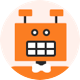
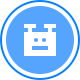
Cleanup of assets, CSS fixes

diff --git a/src/components/User/UserTooltip.jsx b/src/components/User/UserTooltip.jsx
@@ -16,7 +16,7 @@ const UserTooltip = ({ usr, id, previewAvatar }) => {
         {
           previewAvatar ? (<div className={`stack-avatar-${id}`}>
             <Avatar
-              avatarUrl={_.get(usr, 'photoURL', require('../../assets/images/avatar-coder.png'))}
+              avatarUrl={_.get(usr, 'photoURL', require('../../assets/images/avatar-coder.svg'))}
               userName={usr.firstName ? (usr.firstName + ' ' + usr.lastName) : 'Connect user'}
               size={30}
             />
@@ -29,7 +29,7 @@ const UserTooltip = ({ usr, id, previewAvatar }) => {
           <div className="tt-col-avatar">
             <a href={`//www.${DOMAIN}/members/${usr.handle}/`} target="_blank" rel="noopener noreferrer" className="tt-user-avatar">
               <Avatar
-                avatarUrl={_.get(usr, 'photoURL', require('../../assets/images/avatar-coder.png'))}
+                avatarUrl={_.get(usr, 'photoURL', require('../../assets/images/avatar-coder.svg'))}
                 userName={usr.firstName ? (usr.firstName + ' ' + usr.lastName) : 'Connect user'}
               />
             </a>

diff --git a/src/components/AvatarGroup/AvatarGroup.jsx b/src/components/AvatarGroup/AvatarGroup.jsx
@@ -9,7 +9,7 @@ function AvatarGroup({ users }) {
     return (
       <Avatar
         key={ index }
-        avatarUrl={ _.get(user, 'photoURL', require('../../assets/images/avatar-coder.png'))}
+        avatarUrl={ _.get(user, 'photoURL', require('../../assets/images/avatar-coder.svg'))}
         userName={ user.firstName ? (user.firstName + ' ' + user.lastName) : 'Connect user'}
       />
     )

diff --git a/src/projects/detail/containers/FeedContainer.js b/src/projects/detail/containers/FeedContainer.js
@@ -28,7 +28,7 @@ const ScrollableFeed = Helpers.Element(Feed)
 const SYSTEM_USER = {
   firstName: CODER_BOT_USER_FNAME,
   lastName: CODER_BOT_USER_LNAME,
-  photoURL: require('../../../assets/images/avatar-coder.png')
+  photoURL: require('../../../assets/images/avatar-coder.svg')
 }
 const isSystemUser = (userId) => [DISCOURSE_BOT_USERID, CODER_BOT_USERID].indexOf(userId) > -1
 

diff --git a/src/projects/detail/containers/MessagesContainer.js b/src/projects/detail/containers/MessagesContainer.js
@@ -24,7 +24,7 @@ import {
 const SYSTEM_USER = {
   firstName: CODER_BOT_USER_FNAME,
   lastName: CODER_BOT_USER_LNAME,
-  photoURL: require('../../../assets/images/avatar-coder.png')
+  photoURL: require('../../../assets/images/avatar-coder.svg')
 }
 const isSystemUser = (userId) => [DISCOURSE_BOT_USERID, CODER_BOT_USERID].indexOf(userId) > -1
 

diff --git a/src/components/MessageList/MessagingEmptyState.jsx b/src/components/MessageList/MessagingEmptyState.jsx
@@ -11,7 +11,7 @@ const MessagingEmptyState = ({ currentUser, onClose }) => (
         <Icons.CloseIcon />
       </a>
       <Comment
-        avatarUrl={require('../../assets/images/avatar-coder.png')}
+        avatarUrl={require('../../assets/images/avatar-coder.svg')}
         authorName="Coder the Bot"
         self={false}
         date=""

diff --git a/src/components/Panel/Panel.scss b/src/components/Panel/Panel.scss
@@ -49,8 +49,8 @@
 
       svg {
         fill: $tc-white;
-        width: 12px;
-        height: 12px;
+        width: 8px;
+        height: 8px;
       }
     }
 
